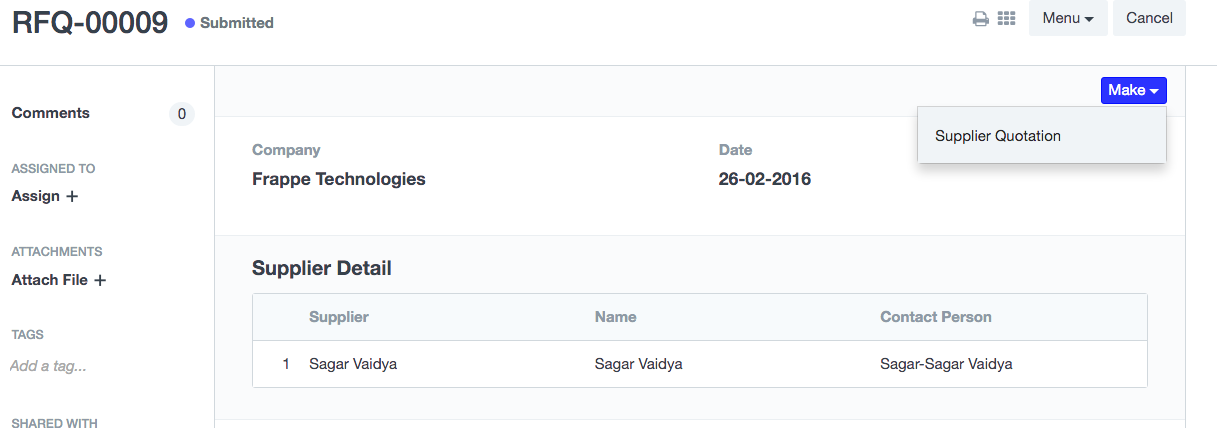
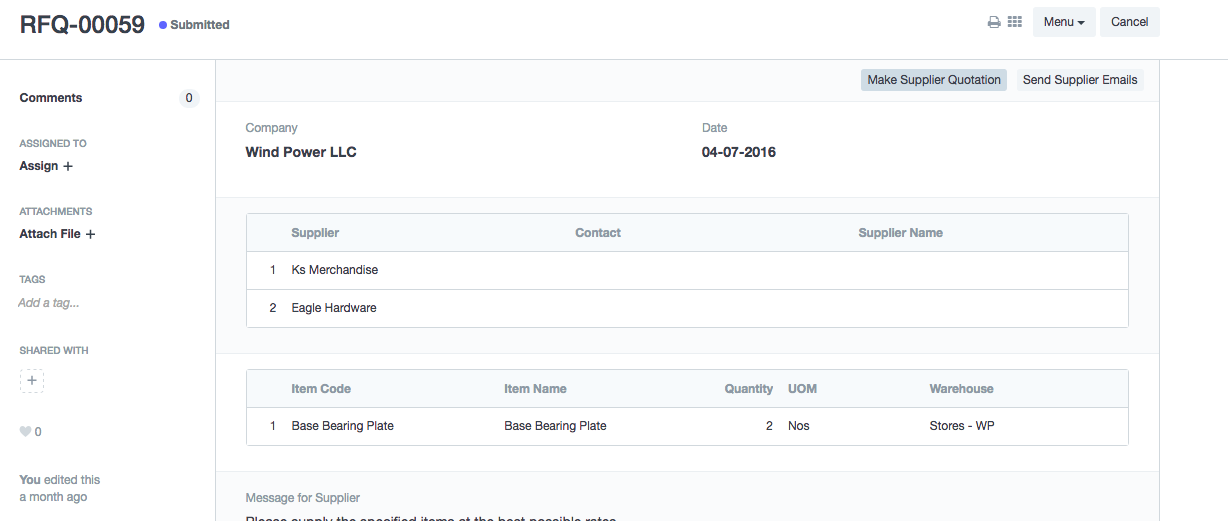
[Fixes] RFQ minor fixes

diff --git a/erpnext/templates/pages/rfq.html b/erpnext/templates/pages/rfq.html
@@ -12,12 +12,6 @@
 	{% include "templates/includes/breadcrumbs.html" %}
 {% endblock %}
 
-{% block style %}
-<style>
-    {% include "templates/includes/order/order.css" %}
-</style>
-{% endblock %}
-
 {% block header_actions %}
 {% if doc.items %}
 <button class="btn btn-primary btn-sm"
@@ -35,8 +29,7 @@
         {{ doc.get_formatted("transaction_date") }}
     </div>
 </div>
-
-<div class="rfq-content">
+<div class="rfq-content" style="margin-top:15px">
 	<div id="order-container">
 			<div id="rfq-items">
 				<div class="row cart-item-header">

diff --git a/erpnext/buying/doctype/request_for_quotation/request_for_quotation.py b/erpnext/buying/doctype/request_for_quotation/request_for_quotation.py
@@ -18,6 +18,7 @@ class RequestforQuotation(BuyingController):
 	def validate(self):
 		self.validate_duplicate_supplier()
 		self.validate_common()
+		self.update_email_id()
 
 	def validate_duplicate_supplier(self):
 		supplier_list = [d.supplier for d in self.suppliers]
@@ -28,6 +29,11 @@ class RequestforQuotation(BuyingController):
 		pc = frappe.get_doc('Purchase Common')
 		pc.validate_for_items(self)
 
+	def update_email_id(self):
+		for rfq_supplier in self.suppliers:
+			if not rfq_supplier.email_id:
+				rfq_supplier.email_id = frappe.db.get_value("Contact", rfq_supplier.contact, "email_id")
+
 	def on_submit(self):
 		frappe.db.set(self, 'status', 'Submitted')
 
@@ -37,12 +43,14 @@ class RequestforQuotation(BuyingController):
 	def send_to_supplier(self):
 		link = get_url("/rfq/" + self.name)
 		for rfq_supplier in self.suppliers:
-			if rfq_supplier.email_id and rfq_supplier.send_email_to_supplier:
+			if rfq_supplier.email_id:
 
 				# make new user if required
 				update_password_link = self.create_supplier_user(rfq_supplier, link)
 
 				self.supplier_rfq_mail(rfq_supplier, update_password_link, link)
+			else:
+				frappe.throw(_("For supplier {0} email id is required to send email").format(rfq_supplier.supplier))
 
 	def create_supplier_user(self, rfq_supplier, link):
 		'''Create a new user for the supplier if not set in contact'''

diff --git a/erpnext/docs/user/manual/en/buying/request-for-quotation.md b/erpnext/docs/user/manual/en/buying/request-for-quotation.md
@@ -2,13 +2,51 @@ A Request for Quotation is a document that an organization submits to one or mor
 
 In ERPNext, You can create request for quotation directly by going to:
 
-`Buying > Documents > Request for Quotation > New Request for Quotation`
-
-Create Request for Quotation:
+> Buying > Documents > Request for Quotation > New Request for Quotation
 
 ![Request For Quotation]({{docs_base_url}}/assets/img/buying/request-for-quotation.png)
 
-Create Supplier Quotation from Request for Quotation form:
+After creation of request for quotation, there are two ways to generate supplier quotation from request for quotation.
+
+#### For User
+
+__Step 1:__ Open request for quotation and click on make supplier quotation.
 
 ![Request For Quotation]({{docs_base_url}}/assets/img/buying/make-supplier-quotation-from-rfq.png)
- 
+
+__Step 2:__ Select supplier and click on make supplier quotation.
+
+![Request For Quotation]({{docs_base_url}}/assets/img/buying/supplier-selection-from-rfq.png)
+
+__Step 3:__ System will open the supplier quotation, user has to enter the rate and submit it.
+
+![Request For Quotation]({{docs_base_url}}/assets/img/buying/supplier-quotation-from-rfq.png)
+
+#### For Supplier
+
+__Step 1:__ User has to create contact or enter email id against the supplier on request for quotation.
+
+![Request For Quotation]({{docs_base_url}}/assets/img/buying/set-email-id.png)
+
+__Step 2:__ User has to click on send supplier emails button.
+
+![Request For Quotation]({{docs_base_url}}/assets/img/buying/send-supplier-emails.png)
+
+* If supplier's user not available: system will create supplier's user and send details to the supplier, supplier will need to click on the link(Password Update) present in the email. After password update supplier can access his portal with the request for quotation form.
+
+![Request For Quotation]({{docs_base_url}}/assets/img/buying/supplier-password-update-link.png)
+
+* If supplier's user available: system will send request for quotation link to supplier, supplier has to login using his credentials to view request for quotation form on portal. 
+
+![Request For Quotation]({{docs_base_url}}/assets/img/buying/send-rfq-link.png)
+
+__Step 3:__ Supplier has to enter amount and notes(payment terms) on the form and click on submit
+
+![Request For Quotation]({{docs_base_url}}/assets/img/buying/supplier-portal-rfq.png)
+
+__Step 4:__ On submission, system will create supplier quotation(draft mode) against the supplier. User has to review the supplier quotation
+            and submit it.
+			
+More details:-
+
+![Request For Quotation]({{docs_base_url}}/assets/img/buying/request-for-quotation.gif)
